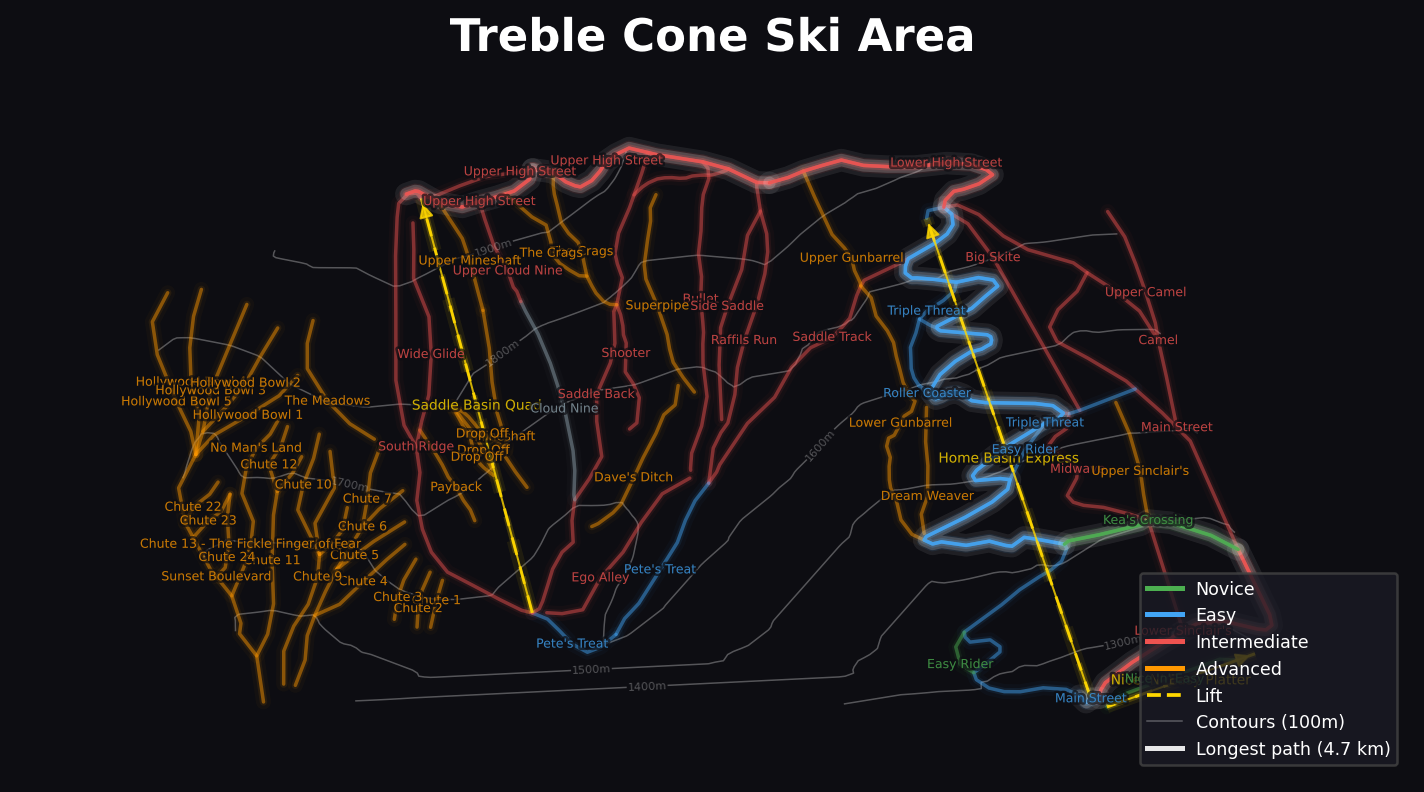
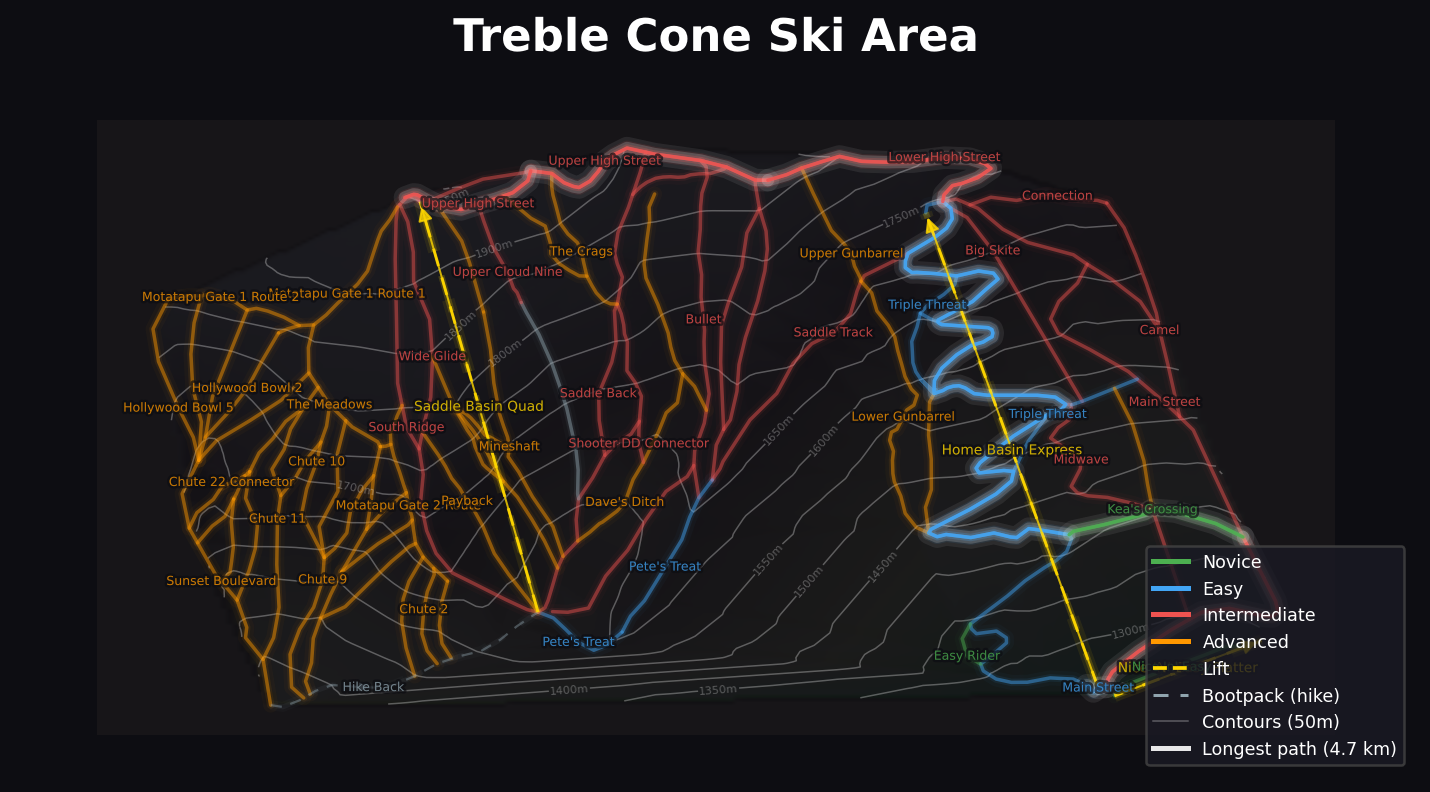
Improvements to Treblecone

diff --git a/scripts/ski_network_graph.py b/scripts/ski_network_graph.py
@@ -464,22 +464,44 @@ def render_resort(con, resort_name: str, country_code: str = "",
             )
 
     # ── 11. run name labels (midpoint of each run) ────────────────────────────
+    # Greedy spatial suppression: skip a label if its midpoint is within
+    # LABEL_MIN_DIST_M of any already-placed label.  Longer runs are prioritised
+    # so that important named runs are more likely to get a label.
+    LABEL_MIN_DIST_M = 120.0
+    placed_label_positions: list[tuple[float, float]] = []
+
+    label_candidates = []
     for osm_id, group in runs_df.groupby("osm_id", sort=False):
         group = group.sort_values("point_index")
         mid = len(group) // 2
-        mx = group["x"].iloc[mid]
-        my = group["y"].iloc[mid]
+        mx = float(group["x"].iloc[mid])
+        my = float(group["y"].iloc[mid])
         run_name = group["run_name"].iloc[0]
         diff = group["difficulty"].iloc[0]
-        color = _safe_color(diff)
+        run_length = float(group["x"].count())  # proxy for run length (point count)
+        label_candidates.append((run_length, mx, my, run_name, diff))
 
-        if run_name and str(run_name).strip():
-            ax.text(
-                mx, my, _safe_text(run_name),
-                color=color, fontsize=5, alpha=0.70,
-                ha="center", va="center",
-                path_effects=[pe.withStroke(linewidth=2, foreground=BG_COLOR)],
-            )
+    # Longest runs first so they win the label slot
+    label_candidates.sort(key=lambda t: t[0], reverse=True)
+
+    for _, mx, my, run_name, diff in label_candidates:
+        if not run_name or not str(run_name).strip():
+            continue
+        # Check distance to every already-placed label
+        too_close = any(
+            math.hypot(mx - px, my - py) < LABEL_MIN_DIST_M
+            for px, py in placed_label_positions
+        )
+        if too_close:
+            continue
+        placed_label_positions.append((mx, my))
+        color = _safe_color(diff)
+        ax.text(
+            mx, my, _safe_text(run_name),
+            color=color, fontsize=5, alpha=0.70,
+            ha="center", va="center",
+            path_effects=[pe.withStroke(linewidth=2, foreground=BG_COLOR)],
+        )
 
     # ── 12. legend ────────────────────────────────────────────────────────────
     legend_items = []